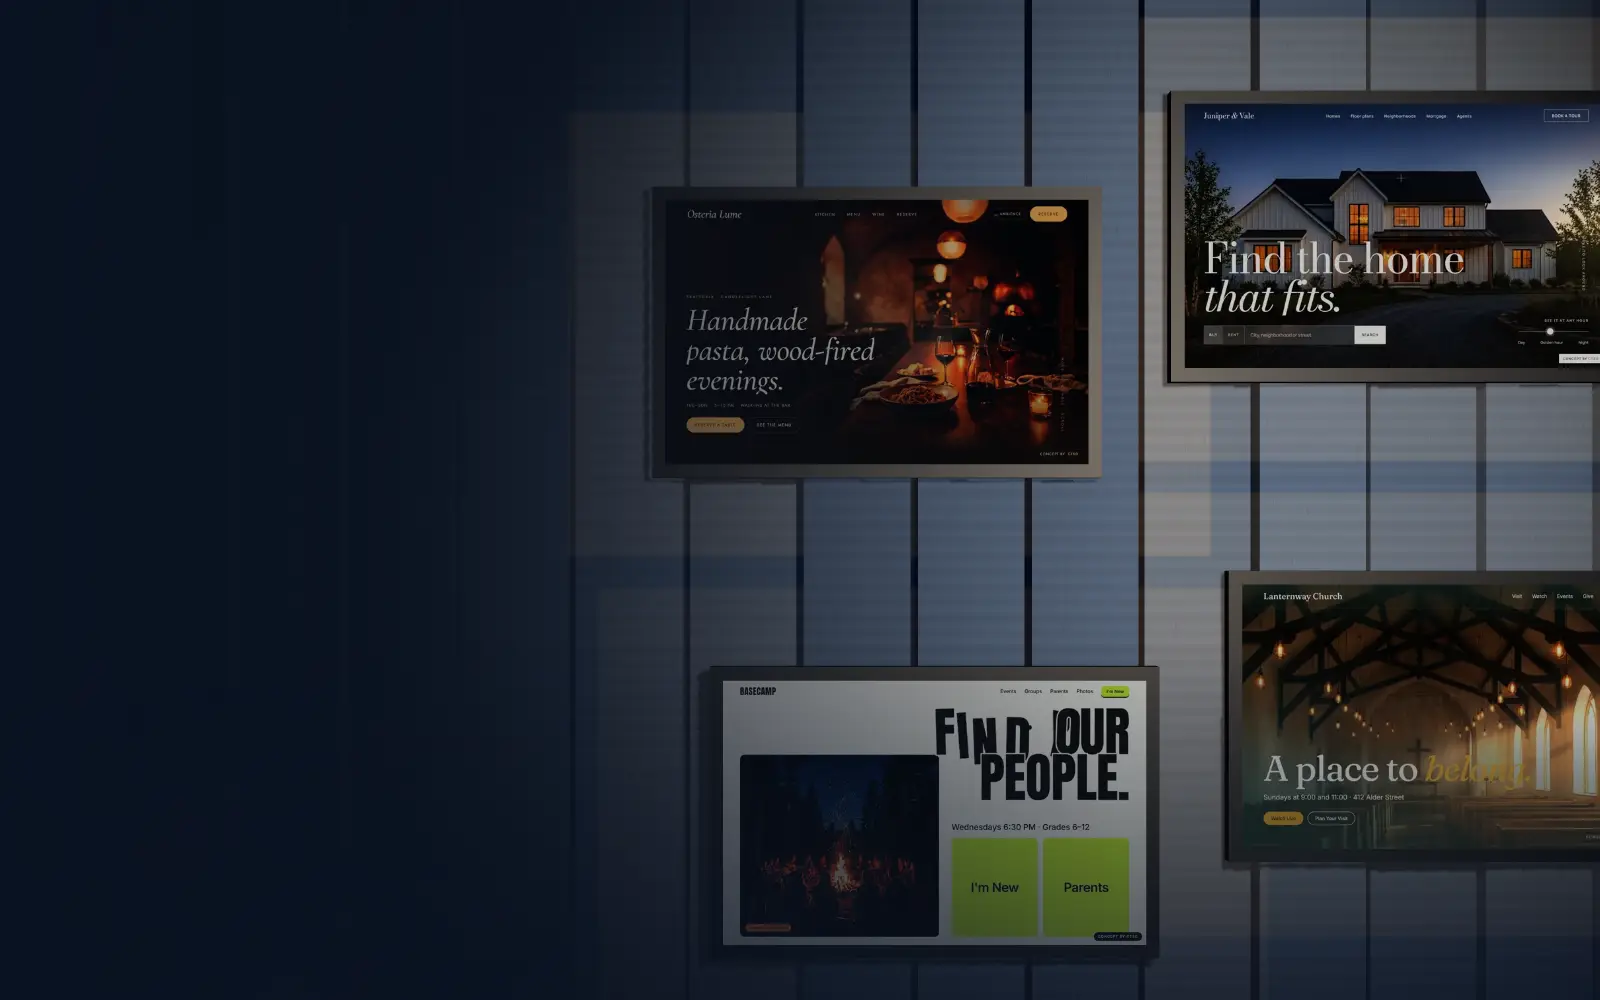
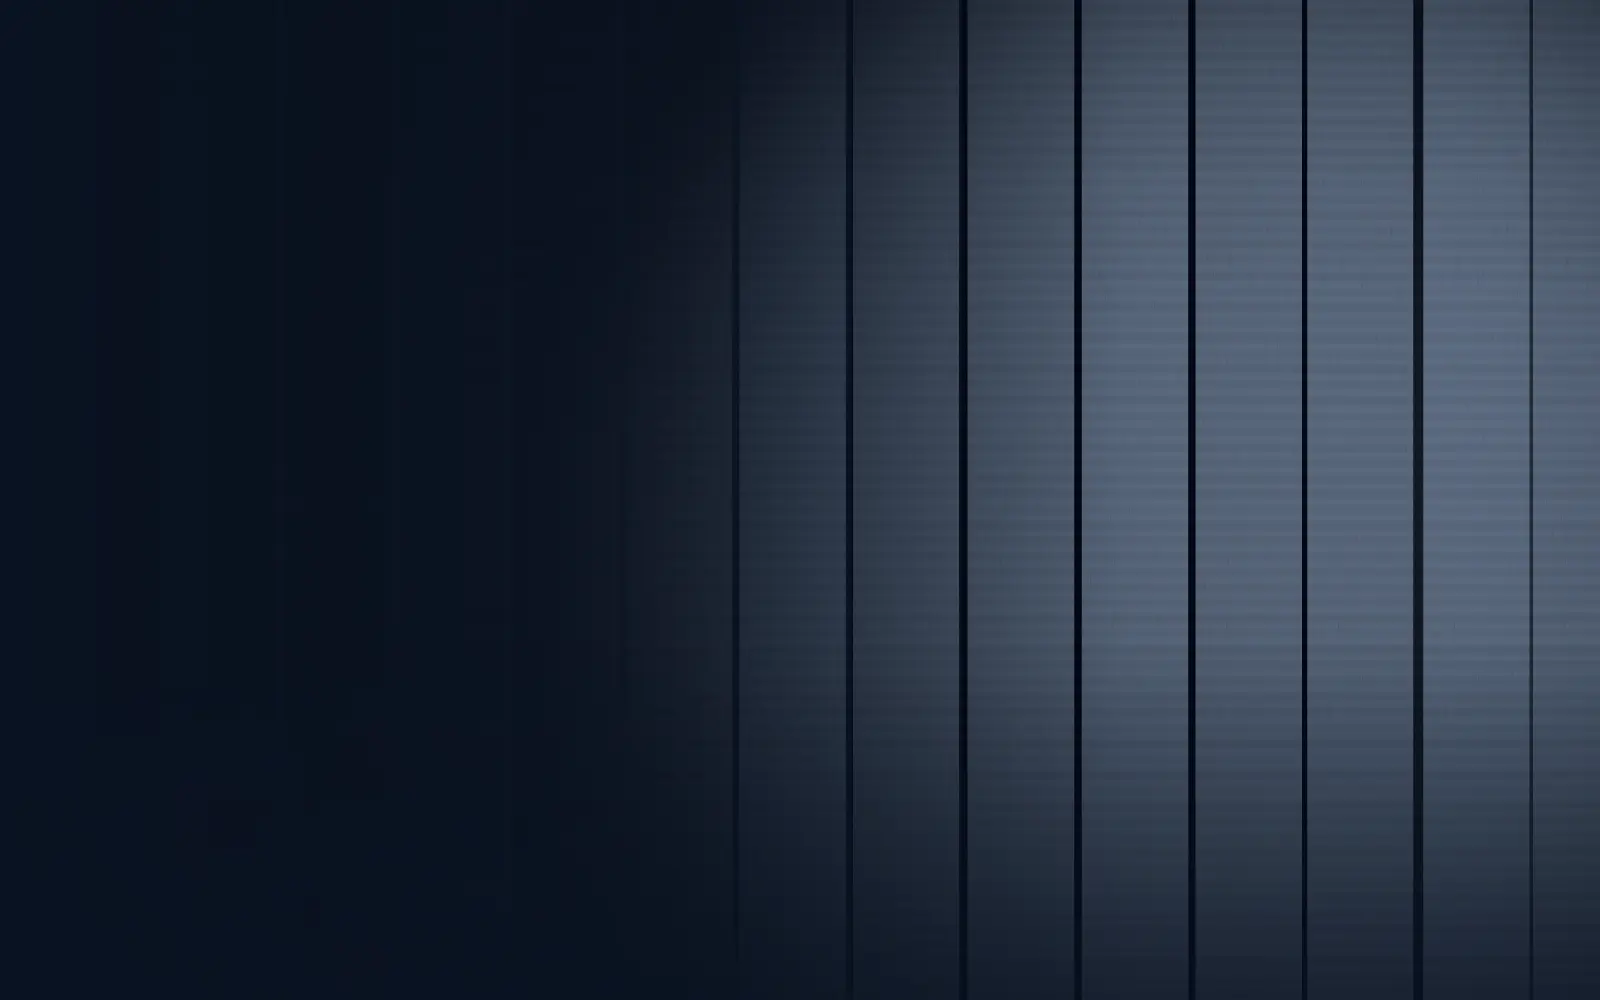
perf(home): one download per loop, shorter pins, a hero that fits every width
- Loops share one player each: the hero wall, reel and industry cards hand
  it between them (leaving a poster behind), so each loop downloads once.
- Pinned scroll roughly halved: the hero 160% to 80%, the reel 100% to 40%
  per showpiece, the journey 40% shorter. The page is ~1,800 px shorter.
- The 3D wall aims its camera so the screens start just past the headline at
  any width; the still layout gets steps for 960-1399 px.
- Phones and machines without a GPU get the still wall with its loops instead
  of the 3D wall (?forcegl=1 forces it, for tests).
- The still is now the bare wall; the screens are no longer baked in twice.

diff --git a/public/assets/home/wall.js b/public/assets/home/wall.js
@@ -30,6 +30,9 @@ export function startWall(canvas, videos, { mobile, dpr }) {
   // Software GL (no GPU, or a headless browser) renders at half size with no shadows so the page stays smooth.
   const gl = renderer.getContext(), info = gl.getExtension('WEBGL_debug_renderer_info');
   const soft = /swiftshader|llvmpipe|software|mesa/i.test(info ? gl.getParameter(info.UNMASKED_RENDERER_WEBGL) : '');
+  // No GPU: the 3D wall would crawl and drag the page with it, so hand back to the still wall instead
+  // (?forcegl=1 keeps the 3D path, for tests and for checking it on such machines).
+  if (soft && !/[?&]forcegl/.test(location.search)) { renderer.dispose(); throw new Error('software-gl'); }
   const lite = mobile || soft;
   renderer.setPixelRatio(soft ? 0.5 : lite ? Math.min(dpr, 1.5) : Math.min(dpr, 1.5));
   renderer.setClearColor(0x0A1322, 1);
@@ -37,7 +40,8 @@ export function startWall(canvas, videos, { mobile, dpr }) {
   mobile = lite;
   const scene = new THREE.Scene();
   const camera = new THREE.PerspectiveCamera(FOV, 16 / 10, 0.1, 100);
-  const L = mobile ? PHONE : DESKTOP;
+  // On narrower desktops the camera slides left, so the screens sit further right, clear of the headline.
+  const L = mobile ? PHONE : DESKTOP; // on desktop the camera's x is then aimed past the headline (aim())
 
   // Panels: fabric-wrapped acoustic columns with slim shadow gaps between them
   const panelGeo = new THREE.BoxGeometry(0.56, 14, 0.34);
@@ -87,9 +91,23 @@ export function startWall(canvas, videos, { mobile, dpr }) {
   const ptr = new THREE.Vector2(L.cam[0] + 2.2, L.cam[1] + 0.6), target = ptr.clone();
   let lastMove = -1e4, visible = true, frozen = false;
 
+  // Aim the camera so the leftmost screen starts just past the end of the headline, whatever the width:
+  // the start pose slides sideways until that screen edge lands 48 px right of the copy.
+  const LEFT_EDGE = Math.min(...screens.map((s) => s.x - s.w / 2));
+  const aim = () => {
+    const title = !mobile && document.querySelector('#hero-title'); if (!title) return;
+    const W = canvas.clientWidth || innerWidth, r = title.getBoundingClientRect();
+    const range = document.createRange(); range.selectNodeContents(title);
+    const textRight = Math.max(...[...range.getClientRects()].map((q) => q.right), r.left);
+    const f = Math.min(0.72, (textRight + 48) / W);
+    const vw = 2 * start.z * Math.tan(THREE.MathUtils.degToRad(FOV / 2)) * camera.aspect;
+    const x = LEFT_EDGE - (f - 0.5) * vw;
+    start.x = x; look0.x = x;
+  };
   const resize = () => {
     const w = canvas.clientWidth || innerWidth, h = canvas.clientHeight || innerHeight; if (!w || !h) return;
     renderer.setSize(w, h, false); camera.aspect = w / h; camera.updateProjectionMatrix();
+    aim();
   };
   addEventListener('resize', resize); resize();
   // Pointer → a point on the wall plane at the camera's current distance
@@ -98,7 +116,14 @@ export function startWall(canvas, videos, { mobile, dpr }) {
     return [camera.position.x + (nx - 0.5) * vw, camera.position.y + (0.5 - ny) * vh];
   };
   addEventListener('pointermove', (e) => { if (frozen || e.pointerType !== 'mouse') return; const [x, y] = toWall(e.clientX / innerWidth, e.clientY / innerHeight); target.set(x, y); lastMove = performance.now(); }, { passive: true });
-  new IntersectionObserver(([en]) => { visible = en.isIntersecting; for (const v of videos) { if (visible) v.play().catch(() => {}); else v.pause(); } }).observe(canvas);
+  // The loops are shared with the reel and the industry cards: coming back into view, the wall takes its
+  // players back (they keep feeding the screen textures); leaving, it pauses only the ones it still holds.
+  const hero = canvas.closest('[data-hero]');
+  new IntersectionObserver(([en]) => {
+    visible = en.isIntersecting;
+    if (visible) { hero.querySelectorAll('[data-wall-screens] img[data-video]').forEach((img) => toVideo(img)); videos.forEach((v) => v.play().catch(() => {})); }
+    else videos.forEach((v) => { if (hero.contains(v)) v.pause(); });
+  }).observe(canvas);
 
   let stopped = false;
   return {
@@ -106,6 +131,7 @@ export function startWall(canvas, videos, { mobile, dpr }) {
     freeze(x, y) { frozen = true; ptr.set(x, y); target.set(x, y); },
     lighten() { renderer.shadowMap.enabled = false; lamp.castShadow = false; renderer.setPixelRatio(0.5); for (const s of screens) s.halo.visible = false; },
     stop() { stopped = true; },
+    hideScreens() { for (const s of screens) s.g.visible = false; },
     tick(t, dt) {
       if (!visible || stopped) return;
       const k = dolly * dolly * (3 - 2 * dolly);
@@ -138,13 +164,14 @@ export function bootWall() {
   const shot = /[?&]wallshot/.test(location.search);
   let wall;
   try { wall = startWall(canvas, videos, { mobile: MOBILE, dpr: devicePixelRatio || 1 }); }
-  catch (e) { document.documentElement.classList.add('home-nogl'); bootStillWall(); return null; }
+  catch (e) { if (e.message === 'software-gl') hero.dataset.wall = 'still'; else document.documentElement.classList.add('home-nogl'); bootStillWall(videos); return null; }
   // Show the scene once a loop can play, or after 2.5 s even if the videos never arrive.
   let shown = false;
   const show = () => { if (shown) return; shown = true; hero.classList.add('is-gl'); if (shot) requestAnimationFrame(() => { document.documentElement.dataset.wallReady = '1'; }); };
   for (const v of videos) { v.addEventListener('canplay', show, { once: true }); v.src = v.dataset.src; v.play().catch(() => {}); }
   setTimeout(show, 2500);
-  if (shot) { wall.freeze(3.4, 0.5); document.querySelector('[data-hero-copy]').style.visibility = 'hidden'; document.querySelector('.hero__scroll').style.visibility = 'hidden'; }
+  // The still is the bare wall: the page lays the screens over it, so they must not be baked in.
+  if (shot) { wall.hideScreens(); wall.freeze(3.4, 0.5); document.querySelector('[data-hero-copy]').style.visibility = 'hidden'; document.querySelector('.hero__scroll').style.visibility = 'hidden'; }
   // Frame-time watchdog: after a few seconds of slow frames, lighten; if still slow, give the hero back
   // to the still image (the screens keep playing over it).
   let frames = 0, slow = 0, stage = 0;

diff --git a/public/assets/home/motion.js b/public/assets/home/motion.js
@@ -31,22 +31,23 @@ function reel(lenis) {
   media.forEach((el) => { el.dataset.manual = '1'; });
   const vids = [];
   let active = -1;
-  const show = (i) => {
+  const show = (i, play = true) => {
     if (i === active) return; active = i;
     // Inactive showpieces stay in the tab order: focusing one scrolls the reel to it (below).
     items.forEach((it, k) => { it.classList.toggle('is-active', k === i); });
-    media.forEach((el, k) => { if (k === i) { vids[k] = playLoop(el); media[k] = vids[k]; } else if (vids[k]) vids[k].pause(); });
+    // Look the media up each time: a shared player may have moved to another section meanwhile.
+    items.forEach((it, k) => { const el = $('.reel__media img, .reel__media video', it); if (k === i) { if (play) vids[k] = playLoop(el); } else if (el && el.tagName === 'VIDEO' && it.contains(el)) el.pause(); });
     const cs = getComputedStyle(items[i]);
     gsap.to(sec, { '--reel-bg': cs.getPropertyValue('--reel-bg').trim(), '--reel-fg': cs.getPropertyValue('--reel-fg').trim(), duration: 0.8, ease: 'power2.inOut' });
     gsap.fromTo($$('.reel__copy > *', items[i]), { y: 30, opacity: 0, filter: 'blur(8px)' }, { y: 0, opacity: 1, filter: 'blur(0px)', duration: 0.8, stagger: 0.06, ease: 'expo.out', overwrite: 'auto' });
     gsap.fromTo($('.reel__media', items[i]), { scale: 0.92, opacity: 0 }, { scale: 1, opacity: 1, duration: 1, ease: 'expo.out', overwrite: 'auto' });
   };
   const st = ScrollTrigger.create({
-    trigger: host, pin: true, start: 'top top', end: `+=${items.length * 100}%`, scrub: true, invalidateOnRefresh: true,
+    trigger: host, pin: true, start: 'top top', end: `+=${items.length * 40}%`, scrub: true, invalidateOnRefresh: true,
     onUpdate: (s) => show(Math.min(items.length - 1, Math.floor(s.progress * items.length))),
     onLeave: () => { vids.forEach((v) => v && v.pause()); }, onLeaveBack: () => { vids.forEach((v) => v && v.pause()); },
   });
-  show(0);
+  show(0, false); // set up the first showpiece, but leave its player with the hero until the reel is reached
   // Keyboard users: focusing a link inside a showpiece scrolls the pin to that showpiece.
   host.addEventListener('focusin', (e) => {
     const it = e.target.closest('.reel__item'); if (!it) return;
@@ -101,7 +102,7 @@ function journey() {
   const tween = gsap.to(list, {
     x: () => -dist(), ease: 'none',
     scrollTrigger: {
-      trigger: sec, pin: inner, start: 'top top', end: () => `+=${dist() + innerHeight * 0.6}`, scrub: 0.4, invalidateOnRefresh: true,
+      trigger: sec, pin: inner, start: 'top top', end: () => `+=${dist() * 0.6 + innerHeight * 0.2}`, scrub: 0.4, invalidateOnRefresh: true,
       onUpdate: (s) => {
         const idx = Math.min(n - 1, Math.floor(s.progress * n));
         if (idx === active) return; active = idx;
@@ -128,8 +129,9 @@ function industries() {
   for (const card of $$('.ind-card')) {
     let el = $('[data-ind-video]', card); if (!el) continue;
     el.dataset.manual = '1';
-    const play = () => { el = playLoop(el); };
-    const stop = () => { if (el.tagName === 'VIDEO') el.pause(); };
+    const media = () => $('[data-ind-video], .ind-card__media video, .ind-card__media img[data-video]', card);
+    const play = () => { playLoop(media()); };
+    const stop = () => { const v = media(); if (v && v.tagName === 'VIDEO' && card.contains(v)) v.pause(); };
     card.addEventListener('pointerenter', play); card.addEventListener('focus', play);
     card.addEventListener('pointerleave', stop); card.addEventListener('blur', stop);
   }

diff --git a/public/assets/css/home.css b/public/assets/css/home.css
@@ -26,13 +26,33 @@ img[data-fb].is-loaded, .manage__img.is-loaded { opacity: 1; }
 .wall__shade { position: absolute; inset: 0; background: linear-gradient(90deg, rgba(10, 19, 34, .92) 0%, rgba(10, 19, 34, .6) 38%, rgba(10, 19, 34, .05) 70%), linear-gradient(0deg, rgba(10, 19, 34, .85) 0%, rgba(10, 19, 34, 0) 40%); pointer-events: none; }
 /* The four screens: positioned over the still for the no-WebGL and still versions */
 .wall-screens { position: absolute; inset: 0; margin: 0; }
-.wall-screens figure { position: absolute; margin: 0; width: 22%; aspect-ratio: 16 / 10; border-radius: 6px; overflow: hidden; background: #000; box-shadow: 0 0 0 4px #1b110e, 0 30px 60px rgba(0, 0, 0, .55), 0 0 60px rgba(148, 170, 204, .18); }
+.wall-screens figure { position: absolute; margin: 0; width: 20%; aspect-ratio: 16 / 10; border-radius: 6px; overflow: hidden; background: #000; box-shadow: 0 0 0 4px #1b110e, 0 30px 60px rgba(0, 0, 0, .55), 0 0 60px rgba(148, 170, 204, .18); }
 .wall-screens figure video, .wall-screens figure img { width: 100%; height: 100%; object-fit: cover; display: block; }
-.wall-screens [data-slug="osteria-lume"] { left: 44%; top: 14%; }
-.wall-screens [data-slug="juniper-vale"] { left: 70%; top: 9%; width: 24%; }
-.wall-screens [data-slug="basecamp"] { left: 48%; top: 50%; width: 20%; }
-.wall-screens [data-slug="lanternway"] { left: 71%; top: 46%; width: 25%; }
+.wall-screens [data-slug="osteria-lume"] { left: 54%; top: 14%; }
+.wall-screens [data-slug="juniper-vale"] { left: 76%; top: 9%; width: 21%; }
+.wall-screens [data-slug="basecamp"] { left: 56%; top: 50%; width: 18%; }
+.wall-screens [data-slug="lanternway"] { left: 77%; top: 46%; width: 21%; }
 .hero.is-gl .wall-screens { visibility: hidden; }
+/* Narrower desktops: the screens move right and shrink so they never touch the headline. */
+@media (min-width: 960px) and (max-width: 1399.98px) {
+  .wall-screens figure { width: 18%; }
+  .wall-screens [data-slug="osteria-lume"] { left: 56%; top: 16%; }
+  .wall-screens [data-slug="juniper-vale"] { left: 77%; top: 11%; width: 20%; }
+  .wall-screens [data-slug="basecamp"] { left: 58%; top: 52%; width: 17%; }
+  .wall-screens [data-slug="lanternway"] { left: 78%; top: 48%; width: 20%; }
+  .hero h1 { font-size: clamp(2.6rem, 1rem + 4.2vw, 4.6rem); }
+  .wall-screens [data-slug="osteria-lume"] { left: 60%; }
+  .wall-screens [data-slug="basecamp"] { left: 61%; }
+}
+@media (min-width: 960px) and (max-width: 1199.98px) {
+  .wall-screens figure { width: 15%; }
+  .wall-screens [data-slug="osteria-lume"] { left: 64%; top: 18%; }
+  .wall-screens [data-slug="juniper-vale"] { left: 81%; top: 12%; width: 16%; }
+  .wall-screens [data-slug="basecamp"] { left: 65%; top: 54%; width: 14%; }
+  .wall-screens [data-slug="lanternway"] { left: 82%; top: 50%; width: 16%; }
+  .hero h1 { max-width: 10ch; }
+  .hero .lead { max-width: 34ch; }
+}
 .hero.is-gl .wall__canvas { opacity: 1; }
 /* A wall that gave up fades back to the still; the screens return with it. */
 .hero:not(.is-gl) .wall__canvas { opacity: 0; }

diff --git a/tests/e2e/home-motion.spec.js b/tests/e2e/home-motion.spec.js
@@ -15,7 +15,8 @@ test.describe('home: the workshop wall', () => {
   test('live: the wall canvas is drawn', async ({ page, browserName }) => {
     test.skip(browserName !== 'chromium', 'WebGL is only reliable in headless Chromium');
     const errors = collectErrors(page);
-    await page.goto('/');
+    // Headless browsers render WebGL in software, where the page skips the 3D wall; force it on here.
+    await page.goto('/?forcegl=1');
     await expect(page.locator('html')).toHaveClass(/home-live/);
     await expect(page.locator('[data-section="hero"]')).toHaveClass(/is-gl/, { timeout: 8000 });
     await expect.poll(() => page.locator('[data-wall-canvas]').evaluate((c) => Number(getComputedStyle(c).opacity)), { timeout: 8000 }).toBeGreaterThan(0.9);
@@ -46,7 +47,7 @@ test.describe('home: the workshop wall', () => {
     test.skip(browserName !== 'chromium', 'WebGL is only reliable in headless Chromium');
     await page.route('**/assets/home/loops/*.mp4', (route) => route.fulfill({ status: 404, body: '' }));
     const errors = collectErrors(page);
-    await page.goto('/');
+    await page.goto('/?forcegl=1');
     await expect(page.locator('.hero__img')).toBeVisible();
     // The scene shows 2.5 s after boot even with no video; allow for a slow first WebGL frame under load.
     await expect(page.locator('[data-section="hero"]')).toHaveClass(/is-gl/, { timeout: 15000 });
@@ -101,6 +102,16 @@ test.describe('home: the workshop wall', () => {
     // Lenis glides to a programmatic position rather than jumping; give it time to arrive.
     await page.waitForTimeout(2200);
     await expect(page.locator('[data-section="process"] .steps li.is-on')).toHaveCount(6);
+  });
+
+  test('no GPU: the still wall with its screens playing, not the 3D wall', async ({ page, browserName }) => {
+    test.skip(browserName !== 'chromium', 'headless Chromium renders WebGL in software');
+    const errors = collectErrors(page);
+    await page.goto('/');
+    await expect(page.locator('[data-hero]')).toHaveAttribute('data-wall', 'still', { timeout: 8000 });
+    await expect(page.locator('[data-section="hero"]')).not.toHaveClass(/is-gl/);
+    await expect.poll(() => page.locator('.wall-screens video').evaluateAll((l) => l.filter((v) => !v.paused).length), { timeout: 8000 }).toBe(4);
+    expect(errors).toEqual([]);
   });
 
   test('hero videos pause off-screen', async ({ page }) => {

diff --git a/public/assets/home/video.js b/public/assets/home/video.js
@@ -1,19 +1,42 @@
 // The page ships only poster images; a loop becomes a <video> when it is about to play. That keeps still
 // mode free of media players (WebKit spins one up per <video>, even with preload="none") and loads nothing
 // ahead of time in live mode.
+//
+// One player per loop: the hero wall, the reel and the industry cards all show the same few loops, so a
+// loop's <video> is shared. When another section needs it, the player moves there and leaves a poster
+// image in its old place, so each loop downloads once.
+const pool = new Map(); // loop URL -> its one <video>
+
+function posterFor(v) {
+  const img = document.createElement('img');
+  img.src = v.poster; img.alt = ''; img.decoding = 'async';
+  img.dataset.video = v.dataset.src;
+  if (v.className) img.className = v.className;
+  return img;
+}
+
 export function toVideo(img) {
   if (!img || img.tagName === 'VIDEO') return img;
-  const v = document.createElement('video');
-  v.muted = true; v.playsInline = true; v.loop = true; v.preload = 'none';
-  v.setAttribute('muted', ''); v.setAttribute('playsinline', ''); v.setAttribute('loop', ''); v.setAttribute('preload', 'none');
-  v.poster = img.currentSrc || img.src;
-  v.dataset.src = img.dataset.video;
+  const src = img.dataset.video;
+  let v = pool.get(src);
+  if (v) {
+    // Hand the shared player over: a poster takes its old place.
+    if (v.isConnected) v.replaceWith(posterFor(v));
+  } else {
+    v = document.createElement('video');
+    v.muted = true; v.playsInline = true; v.loop = true; v.preload = 'none';
+    v.setAttribute('muted', ''); v.setAttribute('playsinline', ''); v.setAttribute('loop', ''); v.setAttribute('preload', 'none');
+    v.poster = img.currentSrc || img.src;
+    v.dataset.src = src;
+    pool.set(src, v);
+  }
   for (const [k, val] of Object.entries(img.dataset)) if (k !== 'video') v.dataset[k] = val;
-  if (img.className) v.className = img.className;
+  v.className = img.className;
   img.replaceWith(v);
   return v;
 }
-// Loads and plays a loop (creating the <video> first if the element is still the poster image).
+
+// Loads and plays a loop (moving the shared player here first if it lives elsewhere).
 export function playLoop(el) {
   const v = toVideo(el);
   if (!v.src) v.src = v.dataset.src;

diff --git a/public/assets/js/home.js b/public/assets/js/home.js
@@ -132,7 +132,7 @@ if (LIVE) {
   const copy = document.querySelector('[data-hero-copy]');
   let wall = null;
   ScrollTrigger.create({
-    trigger: '[data-hero]', pin: '.hero__stick', start: 'top top', end: '+=160%', scrub: true,
+    trigger: '[data-hero]', pin: '.hero__stick', start: 'top top', end: '+=80%', scrub: true,
     onUpdate: (s) => {
       const p = s.progress;
       if (wall) wall.setDolly(p); else gsap.set('.hero__img', { scale: 1 + p * 0.25 });
@@ -140,7 +140,8 @@ if (LIVE) {
       gsap.set('.hero__scroll', { opacity: Math.max(0, 1 - p * 5) });
     },
   });
-  if (GL) {
+  // Phones get the still wall with its loops: lighter, and the 3D adds little on a small screen.
+  if (GL && innerWidth >= 760) {
     import('/assets/home/wall.js').then((m) => {
       wall = m.bootWall();
       if (wall) { let last = performance.now() / 1000; gsap.ticker.add(() => { const t = performance.now() / 1000, dt = Math.min(0.05, t - last); last = t; wall.tick(t, dt); }); }

diff --git a/tests/e2e/home.spec.js b/tests/e2e/home.spec.js
@@ -83,7 +83,8 @@ test.describe('home page', () => {
     expect((await still.body()).length).toBeLessThanOrEqual(180 * 1024);
     await page.goto('/?still=1');
     expect(await page.locator('.hero__img').evaluate((i) => [i.naturalWidth, i.naturalHeight])).toEqual([1600, 1000]);
-    for (const t of imgs.filter((x) => !/hero__img/.test(x))) expect(t).toMatch(/loading="lazy"/);
+    // The header logo (rendered into the HTML by the worker) sits at the top of every page, so it loads eagerly.
+    for (const t of imgs.filter((x) => !/hero__img/.test(x) && !/alt="[^"]*, home"/.test(x))) expect(t).toMatch(/loading="lazy"/);
     // Videos never load ahead of time.
     for (const v of html.matchAll(/<video\b[^>]*>/g)) expect(v[0]).toMatch(/preload="none"/);
 
